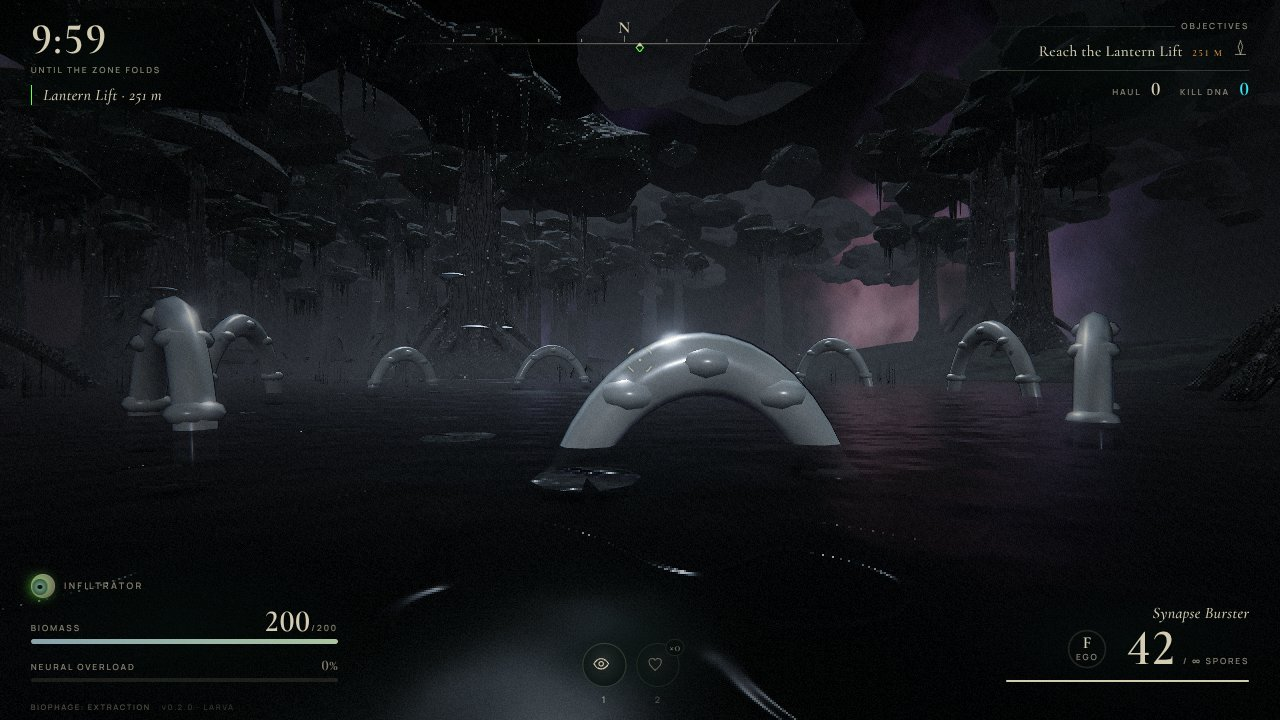
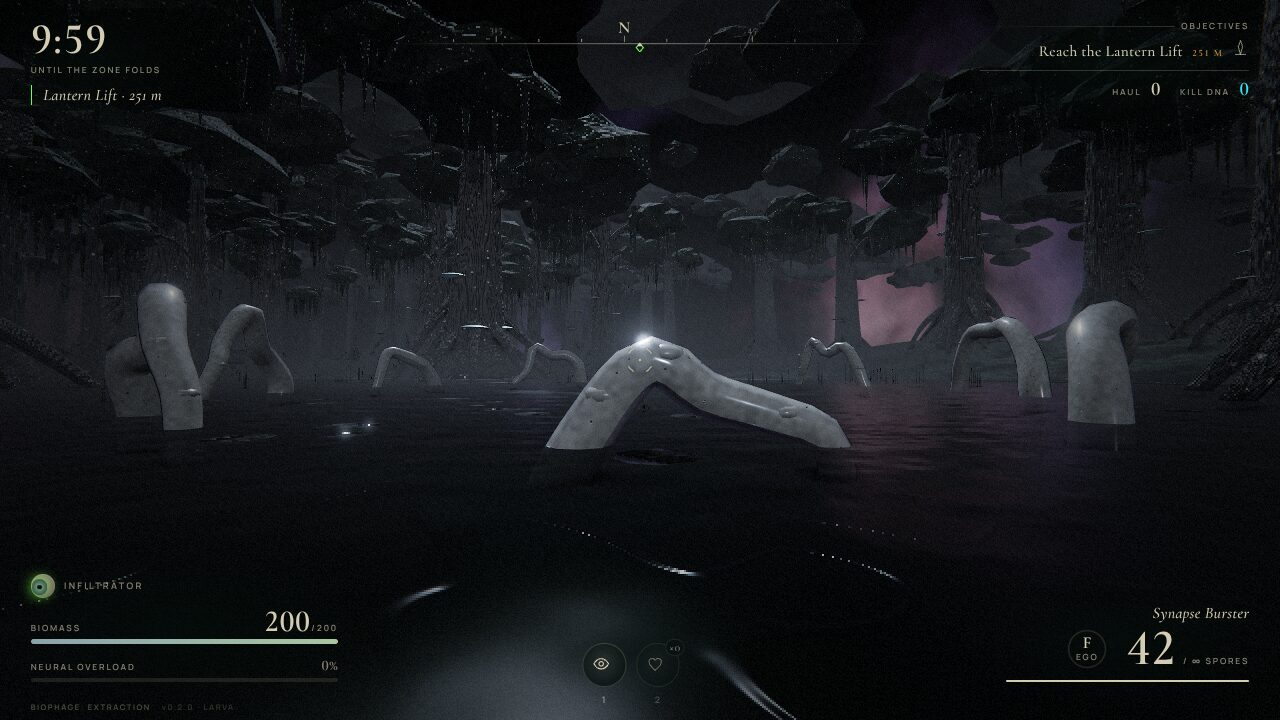
Weeping Fen: organic pass and brighter light
Walls, decks and posts are rounded, bulged and flared at the base; stilt
platforms have noisy rims; roofs sag between ribs with drooping eaves;
the Regent's Pool arches are bent, knuckled bone spines in weathered
bone. Stronger hemisphere and moon light.

Claude-Session: https://claude.ai/code/session_01Y5Bov4Sf17Ztaq1LjiDfQm

diff --git a/src/world/weepingfen.ts b/src/world/weepingfen.ts
@@ -222,15 +222,44 @@ const M4 = (x: number, y: number, z: number, yaw = 0, sx = 1, sy = sx, sz = sx) 
  */
 function solid(batch: Batch | null, mat: THREE.Material | null, cx: number, cz: number, hu: number, hv: number, dir: number, y0: number, y1: number, rise = 0, tag?: string): Collider {
   if (batch && mat) {
-    const geo = new THREE.BoxGeometry(hu * 2, y1 - y0, hv * 2, Math.max(1, Math.round(hu)), 1, Math.max(1, Math.round(hv)));
-    if (rise) {
-      const p = geo.attributes.position;
-      for (let i = 0; i < p.count; i++) if (p.getY(i) > 0) p.setY(i, p.getY(i) - rise * (0.5 - p.getX(i) / (2 * hu)));
-      geo.computeVertexNormals();
+    const H = y1 - y0;
+    const geo = new THREE.BoxGeometry(hu * 2, H, hv * 2, Math.max(2, Math.round(hu * 2)), Math.max(2, Math.round(H * 1.5)), Math.max(2, Math.round(hv * 2)));
+    const p = geo.attributes.position;
+    for (let i = 0; i < p.count; i++) {
+      let y = p.getY(i);
+      if (rise && y > 0) y -= rise * (0.5 - p.getX(i) / (2 * hu));
+      p.setY(i, y);
     }
+    roughen(geo, Math.min(0.12, Math.min(hu, hv) * 0.6 + 0.03), cx * 0.37 + cz * 0.11, hu, hv);
+    geo.computeVertexNormals();
     batch.add(mat, geo, M4(cx, (y0 + y1) / 2, cz, -dir));
   }
   return SOLIDS.add({ cx, cz, hx: hu, hz: hv, yaw: -dir, y0, y1, rise: rise || undefined, tag });
+}
+
+/**
+ * Organic shapes (Brandon 2026-11-12: grown, sagging, weathered, never clean boxes). Pushes a subdivided box out of
+ * true: edges round off, faces bulge and dip with noise, the bottom flares a little like a root. Walkable tops stay
+ * level (vertices on the top face only move sideways), so the collider underneath still matches what you stand on.
+ */
+function roughen(geo: THREE.BufferGeometry, amt: number, seed: number, hu: number, hv: number): void {
+  geo.computeBoundingBox();
+  const bb = geo.boundingBox!, top = bb.max.y, bot = bb.min.y;
+  const p = geo.attributes.position;
+  for (let i = 0; i < p.count; i++) {
+    const x = p.getX(i), y = p.getY(i), z = p.getZ(i);
+    const n1 = noise3(x * 0.9 + seed, y * 0.9, z * 0.9) - 0.5, n2 = noise3(x * 2.3, y * 2.3 + seed, z * 2.3) - 0.5;
+    // Round the vertical edges: pull corners in toward the middle of each face.
+    const ex = Math.abs(x) / (hu + 1e-6), ez = Math.abs(z) / (hv + 1e-6);
+    const corner = Math.max(0, Math.min(ex, ez) - 0.6) * 2.5;
+    const flare = 1 + Math.max(0, 1 - (y - bot) / 0.8) * 0.12;
+    let nx = x * (1 - corner * amt / (hu + 0.5)) * flare + (n1 + n2 * 0.4) * amt * 1.6;
+    let nz = z * (1 - corner * amt / (hv + 0.5)) * flare + (noise3(z * 0.9 - seed, y * 0.9, x * 0.9) - 0.5) * amt * 1.6;
+    nx = Math.max(-hu - amt * 2, Math.min(hu + amt * 2, nx)); nz = Math.max(-hv - amt * 2, Math.min(hv + amt * 2, nz));
+    const onTop = Math.abs(y - top) < 1e-3 || y > top - 0.01;
+    const ny = onTop ? y : y + n2 * amt * 0.8 * (y > bot + 1e-3 ? 1 : 0);
+    p.setXYZ(i, nx, ny, nz);
+  }
 }
 
 /** Octagonal solid (two crossed boxes) for round trunks and platforms. */
@@ -270,8 +299,8 @@ export function buildWeepingFen(scene: THREE.Scene, seed: number): FenWorld {
   scene.add(sky);
   scene.background = new THREE.Color(ZONE7_SHADE.skyHorizon);
   scene.fog = new THREE.FogExp2(ZONE7_SHADE.skyHorizon, 0.0025); // the shared height fog thickens this ~13x at the waterline
-  scene.add(new THREE.HemisphereLight(ORGANIC.mist, ZONE7_SHADE.moss, 2.8));
-  const moon = new THREE.DirectionalLight(ORGANIC.mist, 6.0);
+  scene.add(new THREE.HemisphereLight(ORGANIC.mist, ZONE7_SHADE.moss, 4.0));
+  const moon = new THREE.DirectionalLight(ORGANIC.mist, 7.5);
   moon.position.set(50, 110, -70);
   scene.add(moon);
   // A faint cold back light so trunks separate from the mist behind them.
@@ -303,6 +332,10 @@ export function buildWeepingFen(scene: THREE.Scene, seed: number): FenWorld {
   // ---- Materials (three shader families of our own plus the zone's shared ones).
   const bark = fenBark({ base: ZONE7_SHADE.rock });
   const paleBark = fenBark({ base: HIVE.bone, deep: ZONE7_SHADE.stem, mossy: 0.5 });
+  // Drowned ribs: finer plated, stained bone, a shade darker than the hut bone so they read old, not plastic.
+  const ribBone = oldBone(ORGANIC.mist, 0.9);
+  ribBone.color.multiplyScalar(0.7);
+  ribBone.roughness = 0.75;
   const mossMass = fenBark({ base: ZONE7_SHADE.moss, deep: ZONE7_SHADE.rockDeep, scale: 1.6 });
   const plank = fenBark({ base: ZONE7_SHADE.stem, deep: ZONE7_SHADE.rockDeep, plank: true, mossy: 0.6, scale: 1.4 });
   const hide = fenBark({ base: ZONE7_SHADE.flesh, deep: ZONE7_SHADE.rockDeep, mossy: 0.8, scale: 2.2 });
@@ -514,7 +547,9 @@ export function buildWeepingFen(scene: THREE.Scene, seed: number): FenWorld {
     const D = FEN.stiltVillage.deck;
     for (const h of FEN.stiltVillage.huts) {
       const pr = h.radius + 2.0, yaw = deg(h.yaw);
-      batch.add(plank, new THREE.CylinderGeometry(pr, pr, 0.35, 10), M4(h.x, D - 0.17, h.z, yaw));
+      const deck = new THREE.CylinderGeometry(pr, pr * 0.94, 0.35, 22, 1);
+      { const dp = deck.attributes.position; for (let i = 0; i < dp.count; i++) { const a = Math.atan2(dp.getZ(i), dp.getX(i)), r = Math.hypot(dp.getX(i), dp.getZ(i)); if (r < 0.01) continue; const k = 1 + (noise3(Math.cos(a) * 1.5 + h.x, Math.sin(a) * 1.5, 3) - 0.5) * 0.18; dp.setX(i, dp.getX(i) * k); dp.setZ(i, dp.getZ(i) * k); } deck.computeVertexNormals(); }
+      batch.add(plank, deck, M4(h.x, D - 0.17, h.z, yaw));
       octagon(h.x, h.z, pr * 0.93, D - 0.35, D, `${h.id}-deck`);
       for (let k = 0; k < 8; k++) {
         const a = (k / 8) * Math.PI * 2 + yaw, sx = h.x + Math.cos(a) * (pr - 0.4), sz = h.z + Math.sin(a) * (pr - 0.4);
@@ -531,7 +566,15 @@ export function buildWeepingFen(scene: THREE.Scene, seed: number): FenWorld {
         for (const [y0, y1] of bands) solid(batch, plank, h.x + Math.cos(a) * h.radius, h.z + Math.sin(a) * h.radius, 0.14, h.radius * Math.tan(seg / 2) + 0.06, a, D + y0, D + y1, 0, `${h.id}-wall`);
       }
       // Hide-and-thatch roof, moss trailing from the eaves.
-      const roof = new THREE.ConeGeometry(h.radius + 1.1, 2.8, 14, 3);
+      // A sagging hide-and-thatch roof: the slope dips between its ribs, the eave droops unevenly, the tip leans.
+      const roof = new THREE.ConeGeometry(h.radius + 1.1, 2.8, 28, 7);
+      { const rp = roof.attributes.position, R0 = h.radius + 1.1; for (let i = 0; i < rp.count; i++) {
+        const x = rp.getX(i), y = rp.getY(i), z = rp.getZ(i), r = Math.hypot(x, z) / R0, a = Math.atan2(z, x);
+        const sag = Math.sin(Math.PI * r) * (0.35 + 0.25 * Math.cos(a * 6)) + (noise3(x * 0.8 + h.x, y, z * 0.8) - 0.5) * 0.35;
+        const droop = r > 0.95 ? (noise3(a * 2 + h.z, 1, 2) - 0.3) * 0.7 : 0;
+        const lean = (1.4 - y) / 2.8; // 1 at the eave, 0 at the tip
+        rp.setXYZ(i, x * (1 + (noise3(a * 3, h.x, 5) - 0.5) * 0.15) + (1 - lean) * 0.4, y - sag - droop, z * (1 + (noise3(a * 3, h.z, 6) - 0.5) * 0.15));
+      } roof.computeVertexNormals(); }
       batch.add(hide, roof, M4(h.x, D + wallH + 1.3, h.z, yaw));
       for (let k = 0; k < 7; k++) {
         const a = (k / 7) * Math.PI * 2 + yaw + 0.3;
@@ -688,12 +731,20 @@ export function buildWeepingFen(scene: THREE.Scene, seed: number): FenWorld {
       const x = p.x + Math.cos(a) * p.radius, z = p.z + Math.sin(a) * p.radius;
       const g = fenHeight(x, z);
       const span = 2.6 + noise3(k, 1, 2) * 1.6, sink = 0.6 + noise3(k, 3, 4) * 1.6;
-      const arch = new THREE.TorusGeometry(span, 0.42, 8, 22, Math.PI).rotateY(-a + Math.PI / 2);
-      batch.add(bone, arch, M4(x, g - sink, z, 0, 1, 1.5, 1));
-      // Vertebra knuckles along the arch.
-      for (let j = 1; j < 6; j++) {
-        const t = (j / 6) * Math.PI, ox = Math.cos(t) * span, oy = Math.sin(t) * span * 1.5 - sink;
-        batch.add(bone, new THREE.SphereGeometry(0.6, 8, 6).scale(1, 0.6, 1), M4(x - Math.sin(a) * ox, g + oy, z + Math.cos(a) * ox));
+      // A drowned rib: a bent, tapering spine of bone, thicker at one root, sagging off true, knuckled along its back.
+      const tx = -Math.sin(a), tz = Math.cos(a), lean = (noise3(k, 5, 6) - 0.5) * 1.6;
+      const spine: THREE.Vector3[] = [];
+      for (let j = 0; j <= 8; j++) {
+        const t = (j / 8) * Math.PI, ox = Math.cos(t) * span * (1 + (noise3(k, j, 7) - 0.5) * 0.25);
+        const oy = Math.sin(t) * span * 1.5 * (1 + (noise3(j, k, 8) - 0.5) * 0.3) - sink;
+        const out = Math.sin(t) * lean + (noise3(j, k, 9) - 0.5) * 0.5;
+        spine.push(new THREE.Vector3(x + tx * ox + Math.cos(a) * out, g + oy, z + tz * ox + Math.sin(a) * out));
+      }
+      batch.add(ribBone, taperedTube(spine, 0.6 + noise3(k, 2, 2) * 0.2, 0.28, 30, 9));
+      const curve = new THREE.CatmullRomCurve3(spine);
+      for (let j = 1; j < 9; j++) {
+        const q = curve.getPointAt(j / 9), sz = 0.55 - j * 0.03;
+        batch.add(ribBone, new THREE.DodecahedronGeometry(sz, 1).scale(1, 0.55, 1.2), M4(q.x, q.y + sz * 0.3, q.z, a + j));
       }
       for (const side of [-1, 1]) {
         const fx = x - Math.sin(a) * side * span, fz = z + Math.cos(a) * side * span;
